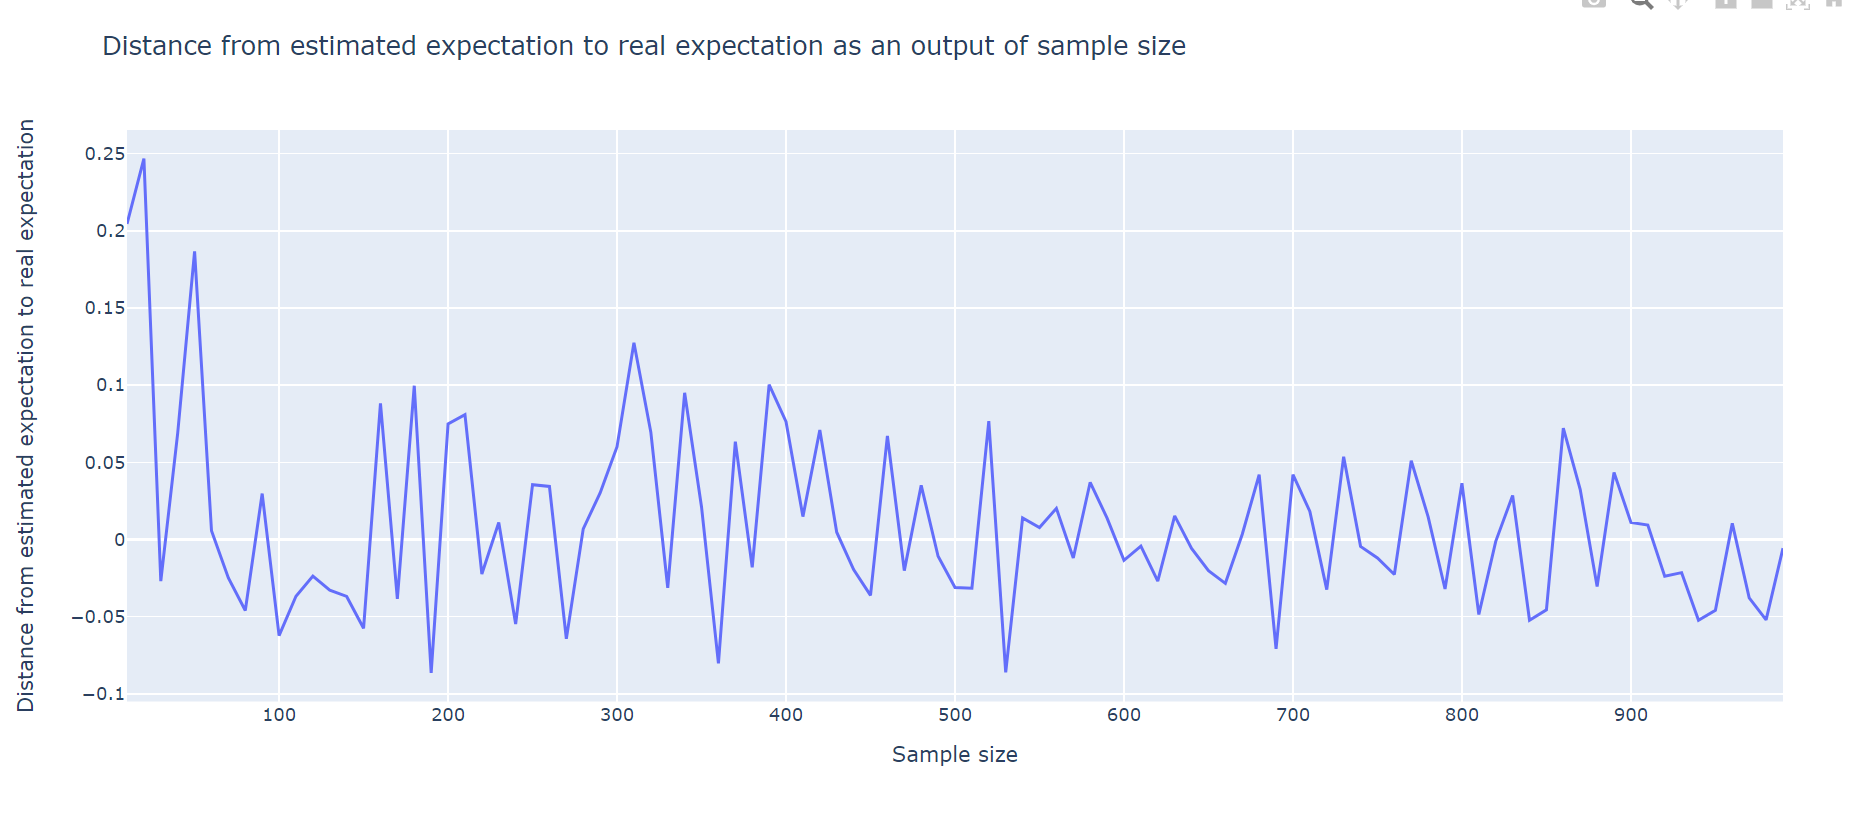
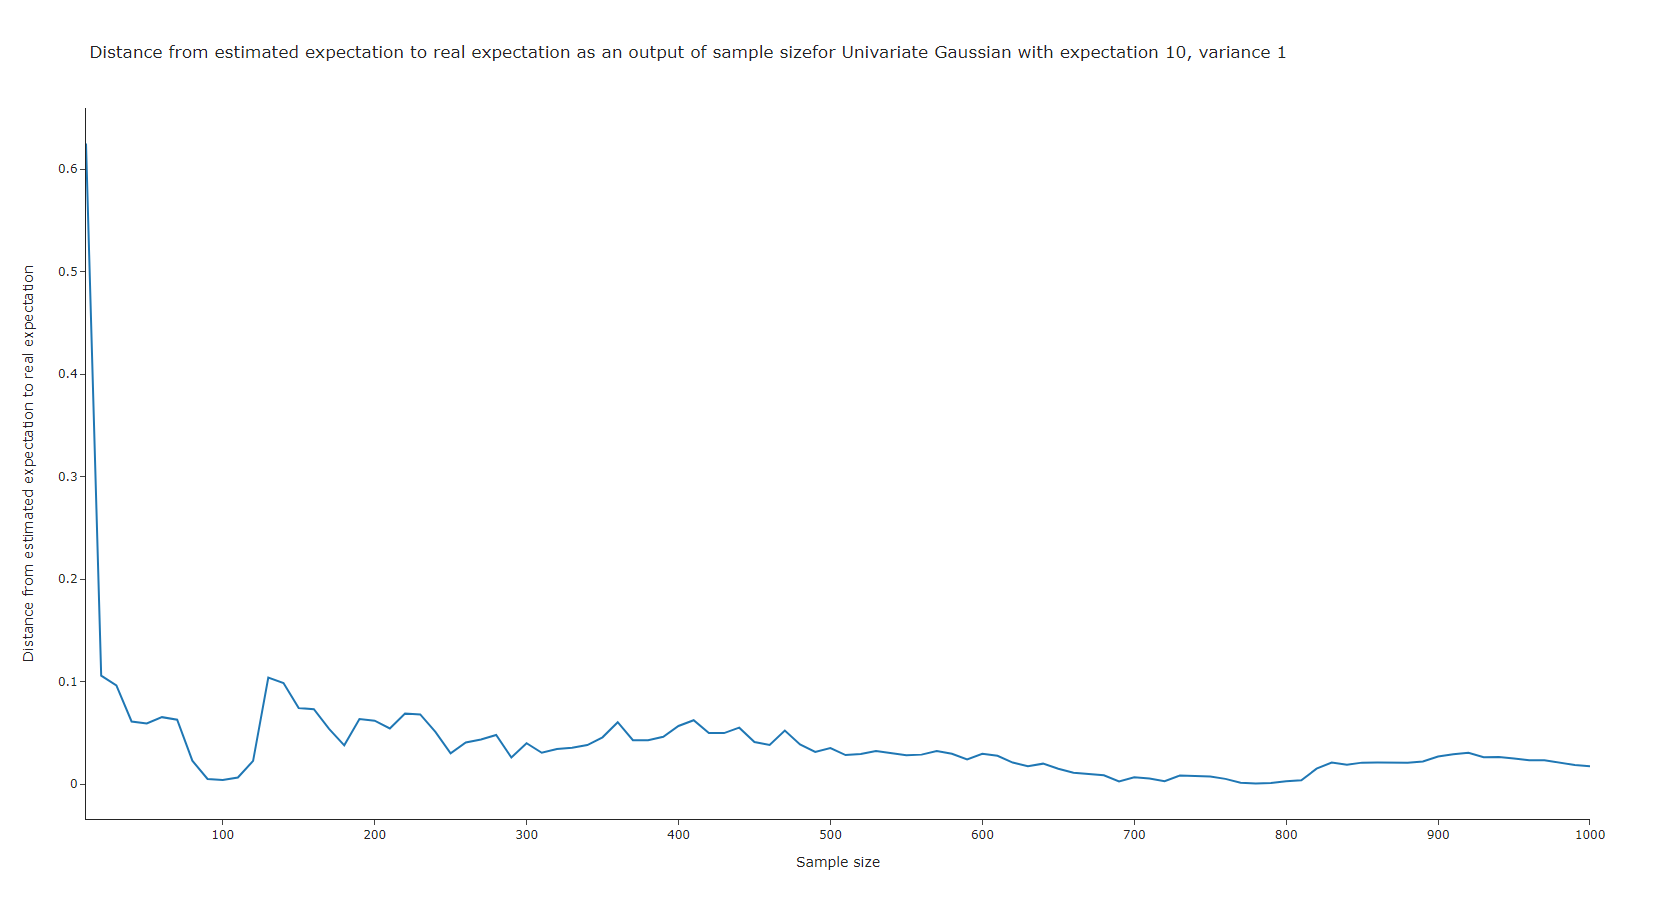
final

diff --git a/exercises/fit_gaussian_estimators.py b/exercises/fit_gaussian_estimators.py
@@ -2,7 +2,7 @@ from IMLearn.learners import UnivariateGaussian, MultivariateGaussian
 import numpy as np
 import plotly.graph_objects as go
 import plotly.io as pio
-he
+
 pio.templates.default = "simple_white"
 
 
@@ -14,19 +14,19 @@ def test_univariate_gaussian():
     print("(" + str(univariate_normal.mu_) + "," + str(univariate_normal.var_) + ")")
 
     # Question 2 - Empirically showing sample mean is consistent
-    sample_sizes = range(10, 1010, 10)
+    sample_sizes = range(10, 1001, 10)
     data = np.random.normal(10, 1, 1000)
     distances = []
     for sample_size in sample_sizes:
         univariate_normal.fit(data[:sample_size])
         distances.append(np.abs(univariate_normal.mu_ - 10))
 
-    fig = go.Figure(data=go.Scatter(x=np.array(range(10, 1010, 10)), y=distances, mode="markers"))
+    fig = go.Figure(data=go.Scatter(x=np.array(sample_sizes), y=distances))
     fig.update_layout(title="Distance from estimated expectation to real expectation as an output of sample size"
                             "for Univariate Gaussian with expectation 10, variance 1",
                       xaxis_title="Sample size",
-                      yaxis_title="Distance from estimated expectation to real expectation")
-    fig.show()
+                      yaxis_title="Distance from estimated expectation to real expectation")\
+        .show()
 
     # Question 3 - Plotting Empirical PDF of fitted model
     univariate_normal.fit(data)
@@ -55,17 +55,25 @@ def test_multivariate_gaussian():
 
     # Question 5 - Likelihood evaluation
     f1, f3 = np.linspace(-10, 10, 200), np.linspace(-10, 10, 200)
-    results = [MultivariateGaussian.log_likelihood(np.array([i, 0, j, 0]).transpose(), sigma, data)
-               for i in f1 for j in f3]
+    results = [[MultivariateGaussian.log_likelihood(np.array([i, 0, j, 0]).transpose(), sigma, data) for i in f1]
+               for j in f3]
 
     results = np.array(results)
-    go.Figure(go.Heatmap(x=f1, y=f3, z=results), layout=go.Layout(title="title", height=500, width=500)).show()
-
+    go.Figure(go.Heatmap(x=f1, y=f3, z=results),
+              layout=go.Layout(
+                  title="Log likelihood As Function of [f1,0,f3,0] expectation values",
+                  xaxis_title="f1",
+                  yaxis_title="f3")) \
+        .show()
     # Question 6 - Maximum likelihood
-    raise NotImplementedError()
+    f3_index, f1_index = np.where(results == np.amax(results))
+    max_f1, max_f3 = f1[f1_index], f3[f3_index]
+    str_max_f1 = f"{float(max_f1):.3f}"
+    str_max_f3 = f"{float(max_f3):.3f}"
+    print(f"maximum log-likelihood achieved for f1 " + str_max_f1 + ", f3 " + str_max_f3)
 
 
 if __name__ == '__main__':
-    np.random.seed(0)
-    # test_univariate_gaussian()
+    np.random.seed(50)
+    test_univariate_gaussian()
     test_multivariate_gaussian()
